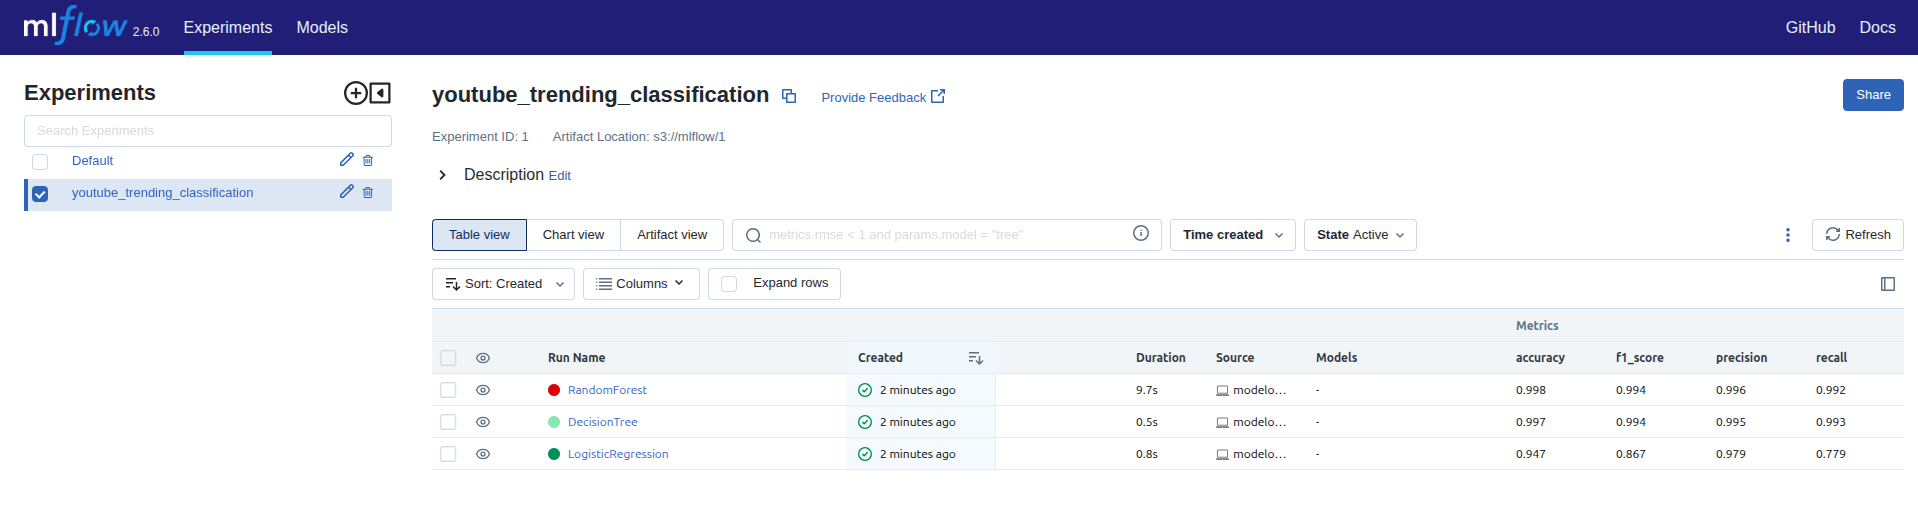
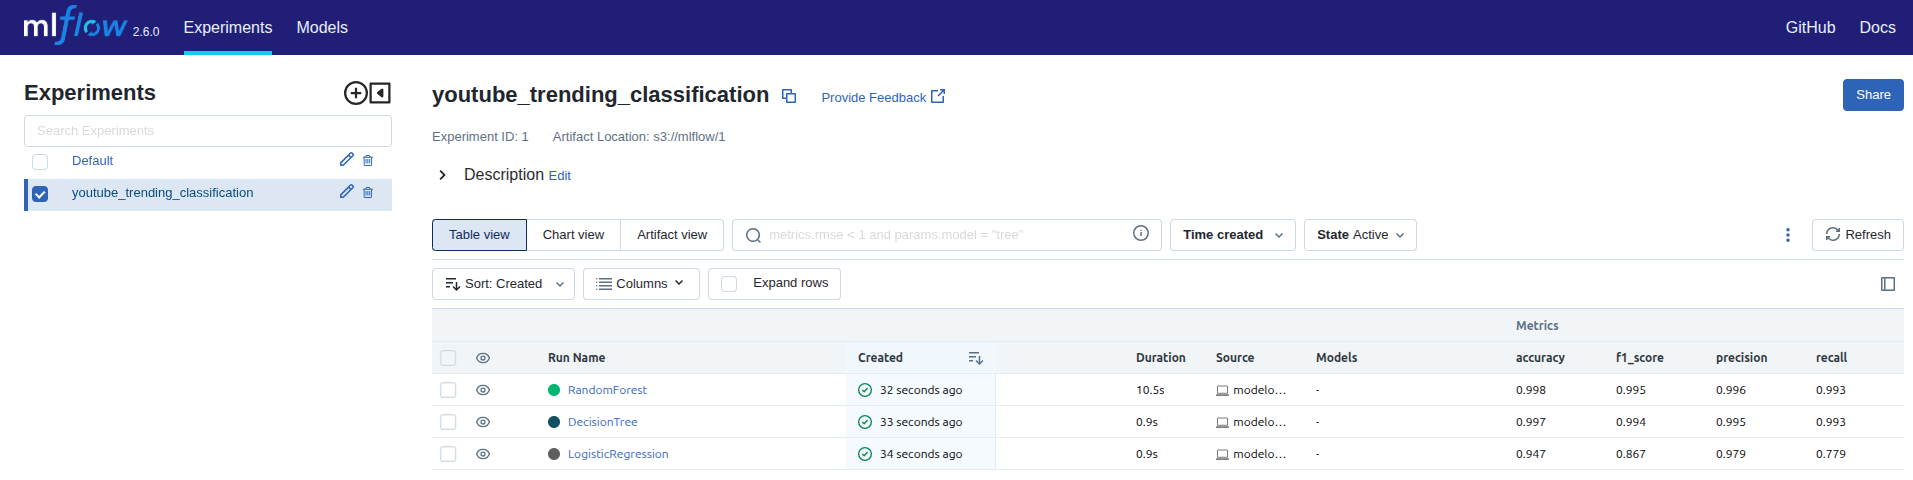
Resultados  atualizados após a exclusão de "dislike"

diff --git a/docs/Sprint 4 - Modelagem e Treinamento (ML + MLflow).md b/docs/Sprint 4 - Modelagem e Treinamento (ML + MLflow).md
@@ -134,8 +134,8 @@ http://localhost:3000
 | Modelo              | Accuracy   | Precision  | Recall     | F1-score   |
 | ------------------- | ---------- | ---------- | ---------- | ---------- |
 | Logistic Regression | 0.9474     | 0.9792     | 0.7785     | 0.8674     |
-| Decision Tree       | 0.9973     | 0.9948     | 0.9931     | 0.9940     |
-| Random Forest       | **0.9975** | **0.9964** | **0.9923** | **0.9943** |
+| Decision Tree       | 0.9973     | 0.9948     | 0.9932     | 0.9940     |
+| Random Forest       | **0.9977** | **0.9964** | **0.9934** | **0.9948** |
 
 ---
 
